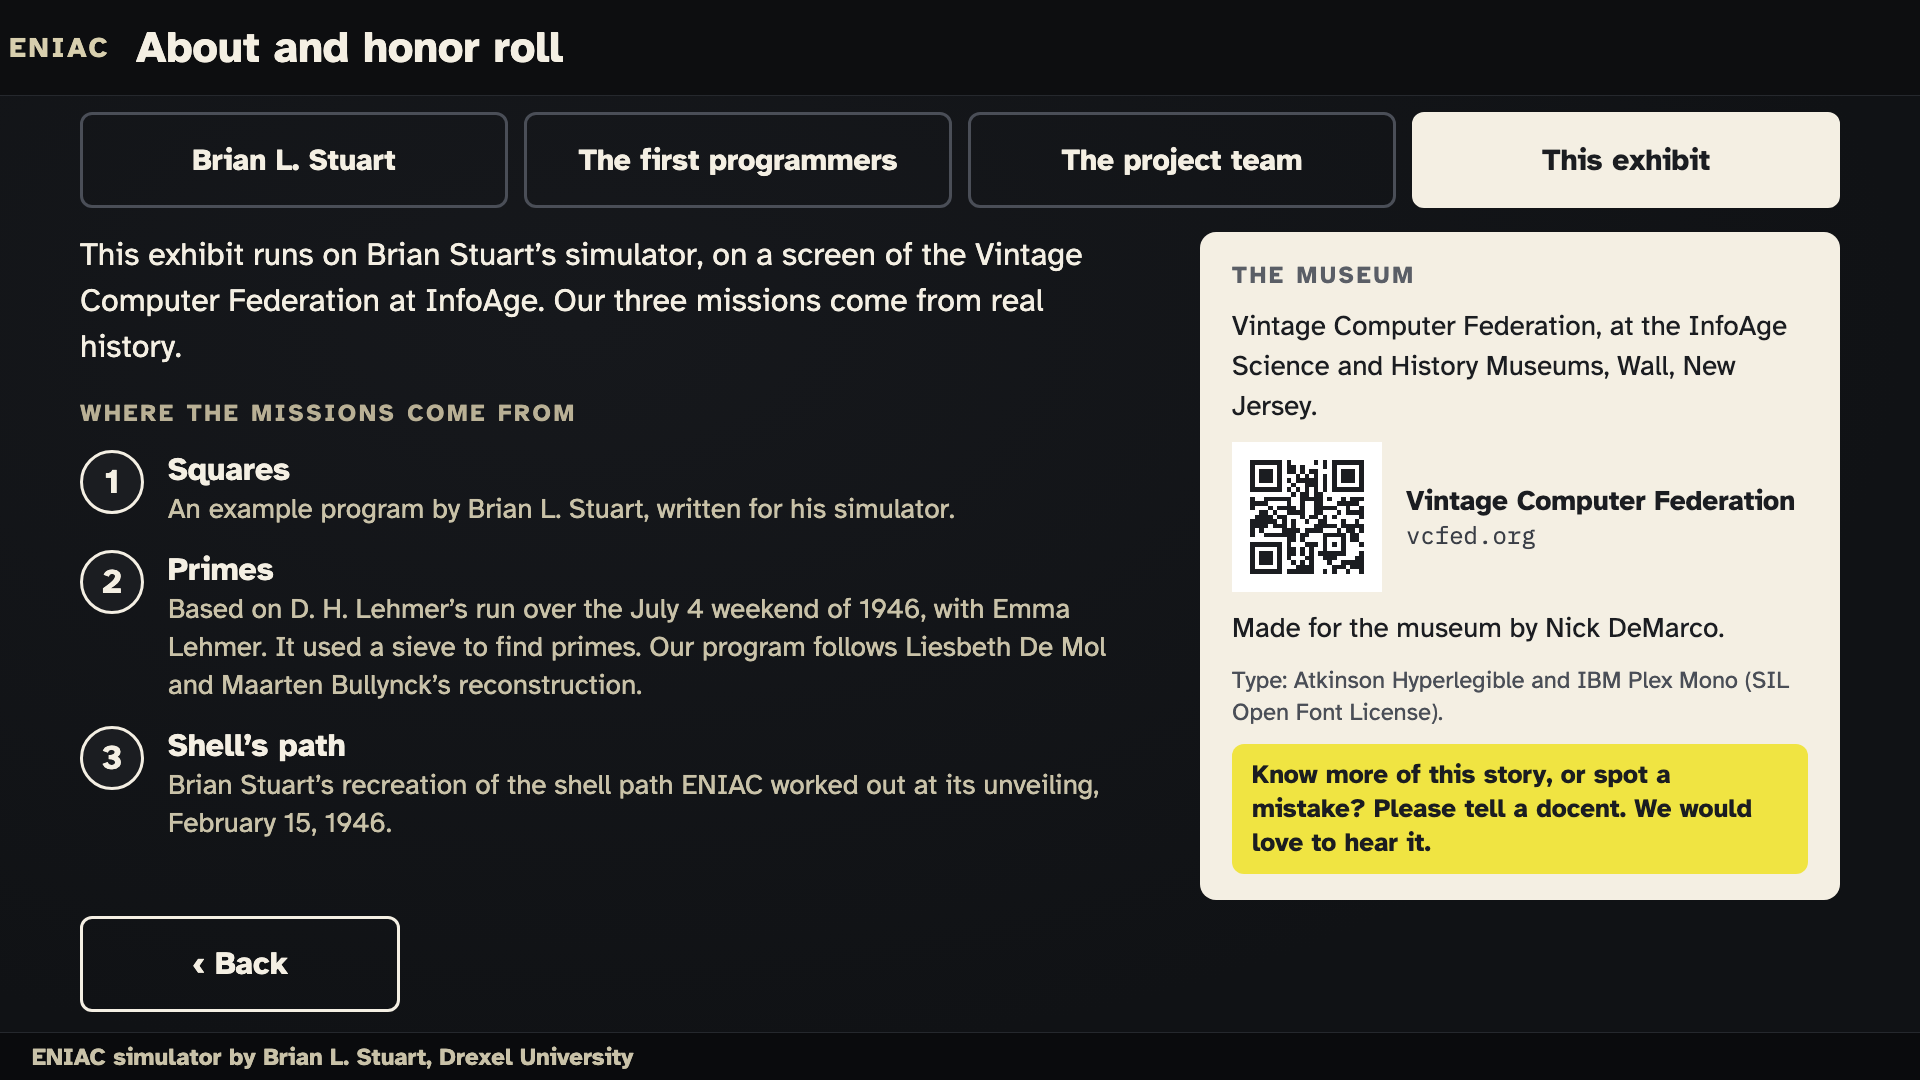
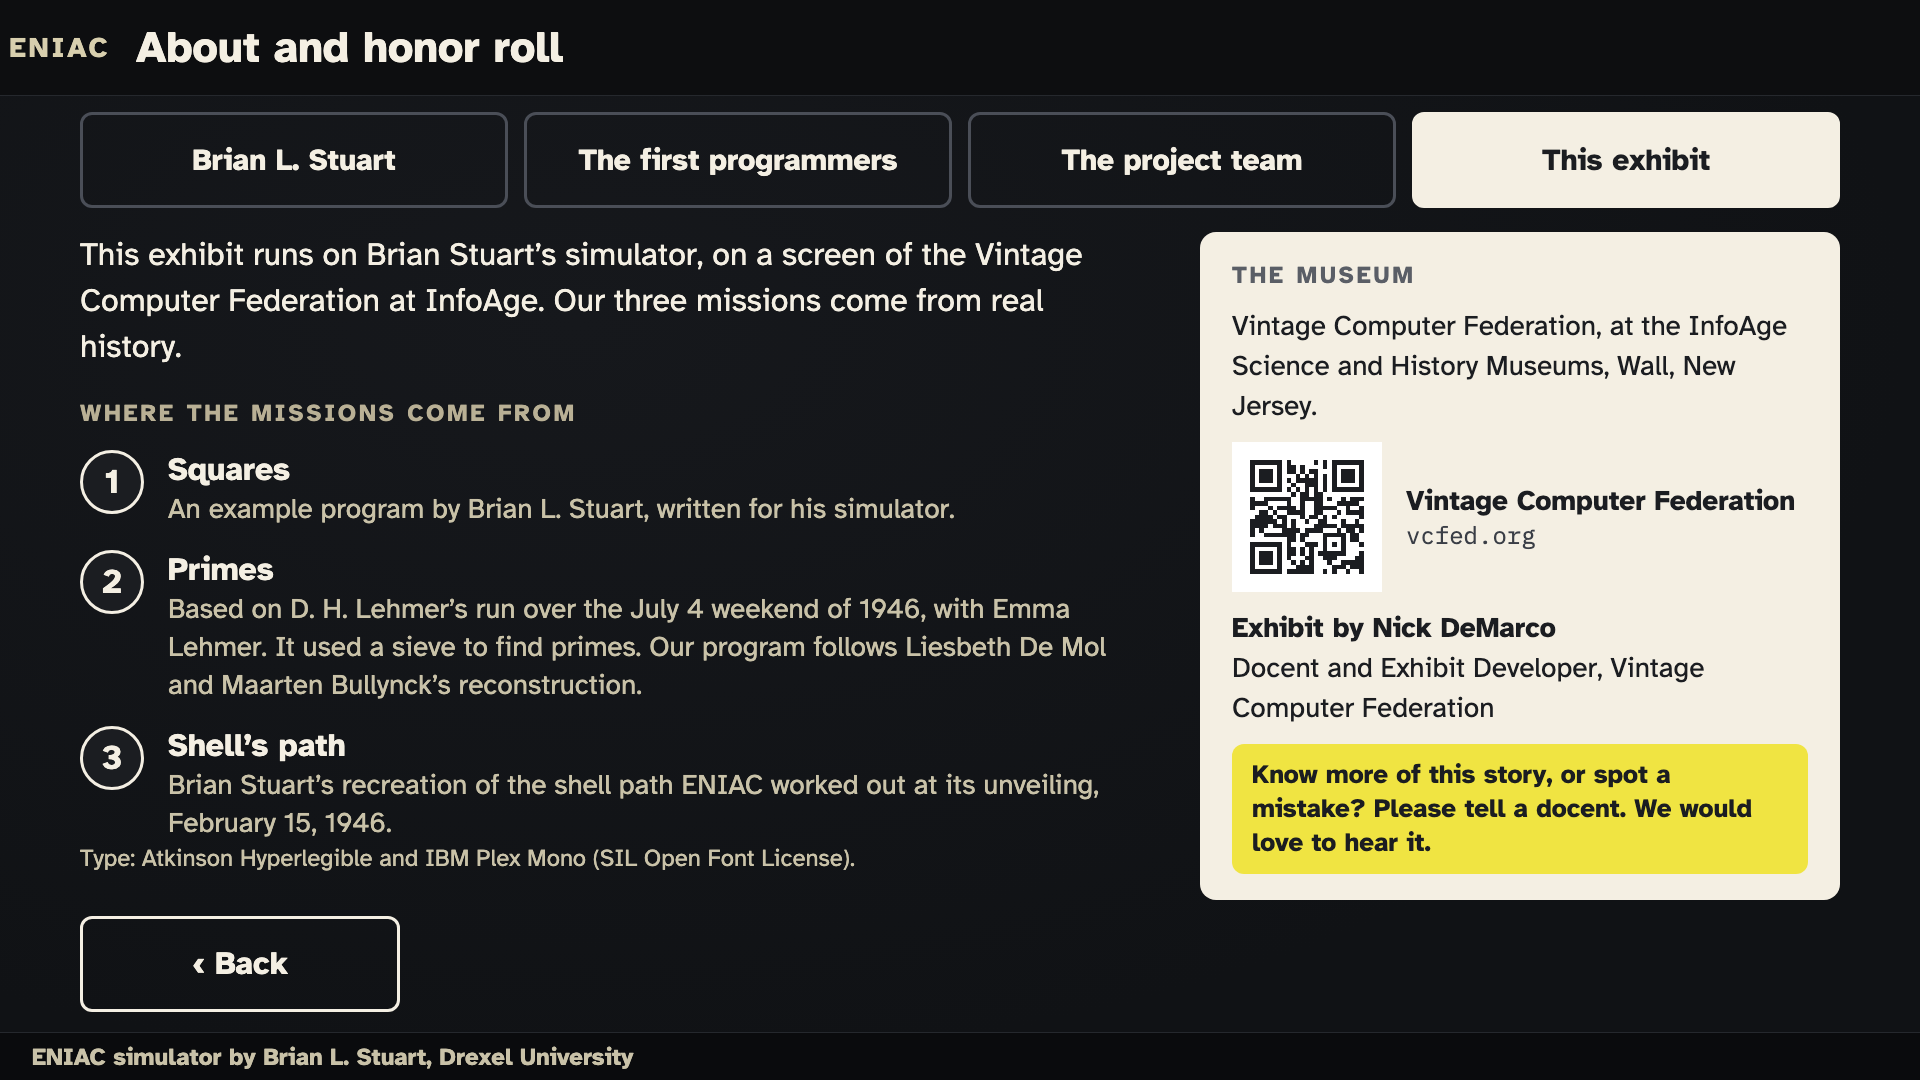
Honor roll page 4: credit as name + role lines so the page fits
#57 lengthened the credit and page 4 overflowed by 53 px (honor.spec fit
check). The credit is now "Exhibit by Nick DeMarco" with the role on its
own line, and the font note moves under the mission sources.

Changed region(s): [[0.625, 0.55, 0.9375, 0.6722], [0.0625, 0.7639, 0.4375, 0.825]]

diff --git a/src/web/app/screens/honor.ts b/src/web/app/screens/honor.ts
@@ -75,15 +75,14 @@ function pageExhibit(): HTMLElement {
       h("div", { class: "src" }, h("span", { class: "src-badge", "aria-hidden": "true" }, String(i + 1)), h("div", {}, h("div", { class: "src-what" }, s.what), h("div", { class: "src-from" }, s.from))),
     ),
   );
-  const left = h("div", { class: "hp-left" }, h("p", { class: "lead" }, e.lead), sources);
+  const left = h("div", { class: "hp-left" }, h("p", { class: "lead" }, e.lead), sources, h("p", { class: "body small type-credit" }, e.type));
   const right = h(
     "div",
     { class: "hp-right museum-card" },
     h("div", { class: "src-title" }, e.museumTitle),
     h("p", { class: "body" }, e.museum),
     qrBlock(e.qr, 150, "museum-qr"),
-    h("p", { class: "body" }, e.madeBy),
-    h("p", { class: "body small" }, e.type),
+    h("p", { class: "body made-by" }, h("strong", {}, e.madeBy), h("br", {}), h("span", { class: "small" }, e.madeByRole)),
     h("p", { class: "body welcome" }, e.welcome),
   );
   return h("div", { class: "honor-page page-exhibit" }, left, right);

diff --git a/src/web/app/content/honor.ts b/src/web/app/content/honor.ts
@@ -155,7 +155,8 @@ export const HONOR = {
     ] as Source[],
     museumTitle: "The museum",
     museum: "Vintage Computer Federation, at the InfoAge Science and History Museums, Wall, New Jersey.",
-    madeBy: "Exhibit created by Nick DeMarco, Docent and Exhibit Developer, Vintage Computer Federation.",
+    madeBy: "Exhibit by Nick DeMarco",
+    madeByRole: "Docent and Exhibit Developer, Vintage Computer Federation",
     fcMadeBy: "Q18 settled 2026-10-02: Nick's VCF role title (Docent and Exhibit Developer), no personal credentials on the exhibit.",
     type: "Type: Atkinson Hyperlegible and IBM Plex Mono (SIL Open Font License).",
     welcome: "Know more of this story, or spot a mistake? Please tell a docent. We would love to hear it.",

diff --git a/src/web/styles/honor.css b/src/web/styles/honor.css
@@ -214,3 +214,6 @@
 @media (prefers-reduced-motion: reduce) {
   .honor-rotator .rot-slide { transition: none; }
 }
+
+/* Page 4: the font credit sits under the mission sources. */
+.honor-page .type-credit { margin-top: 24px; }
